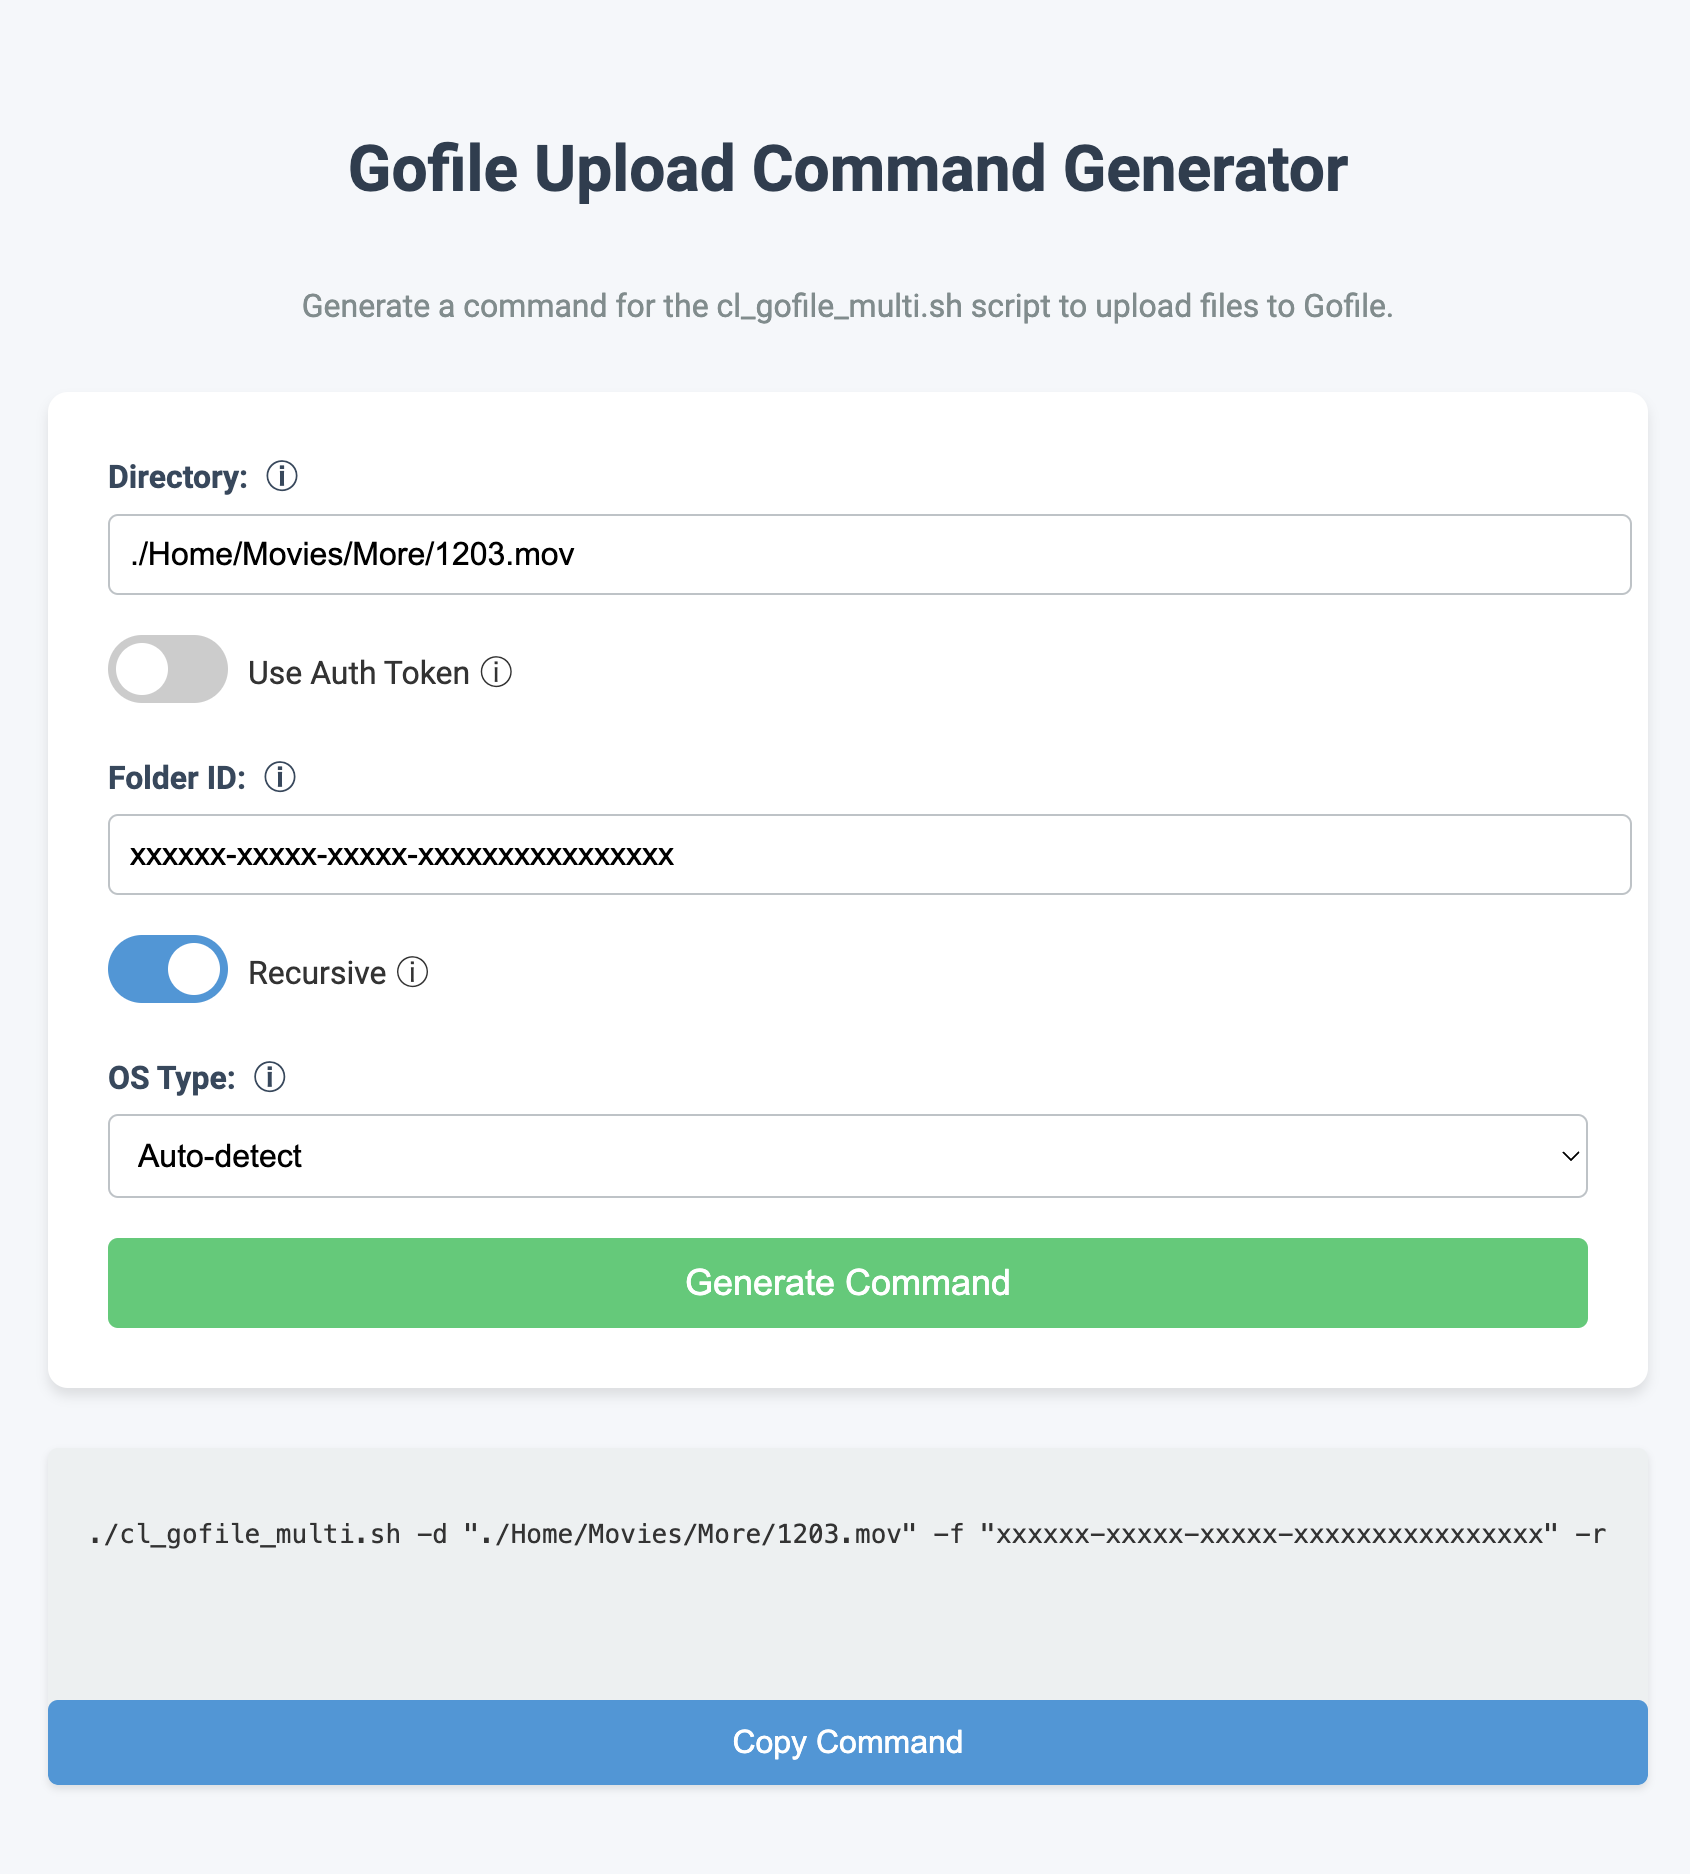
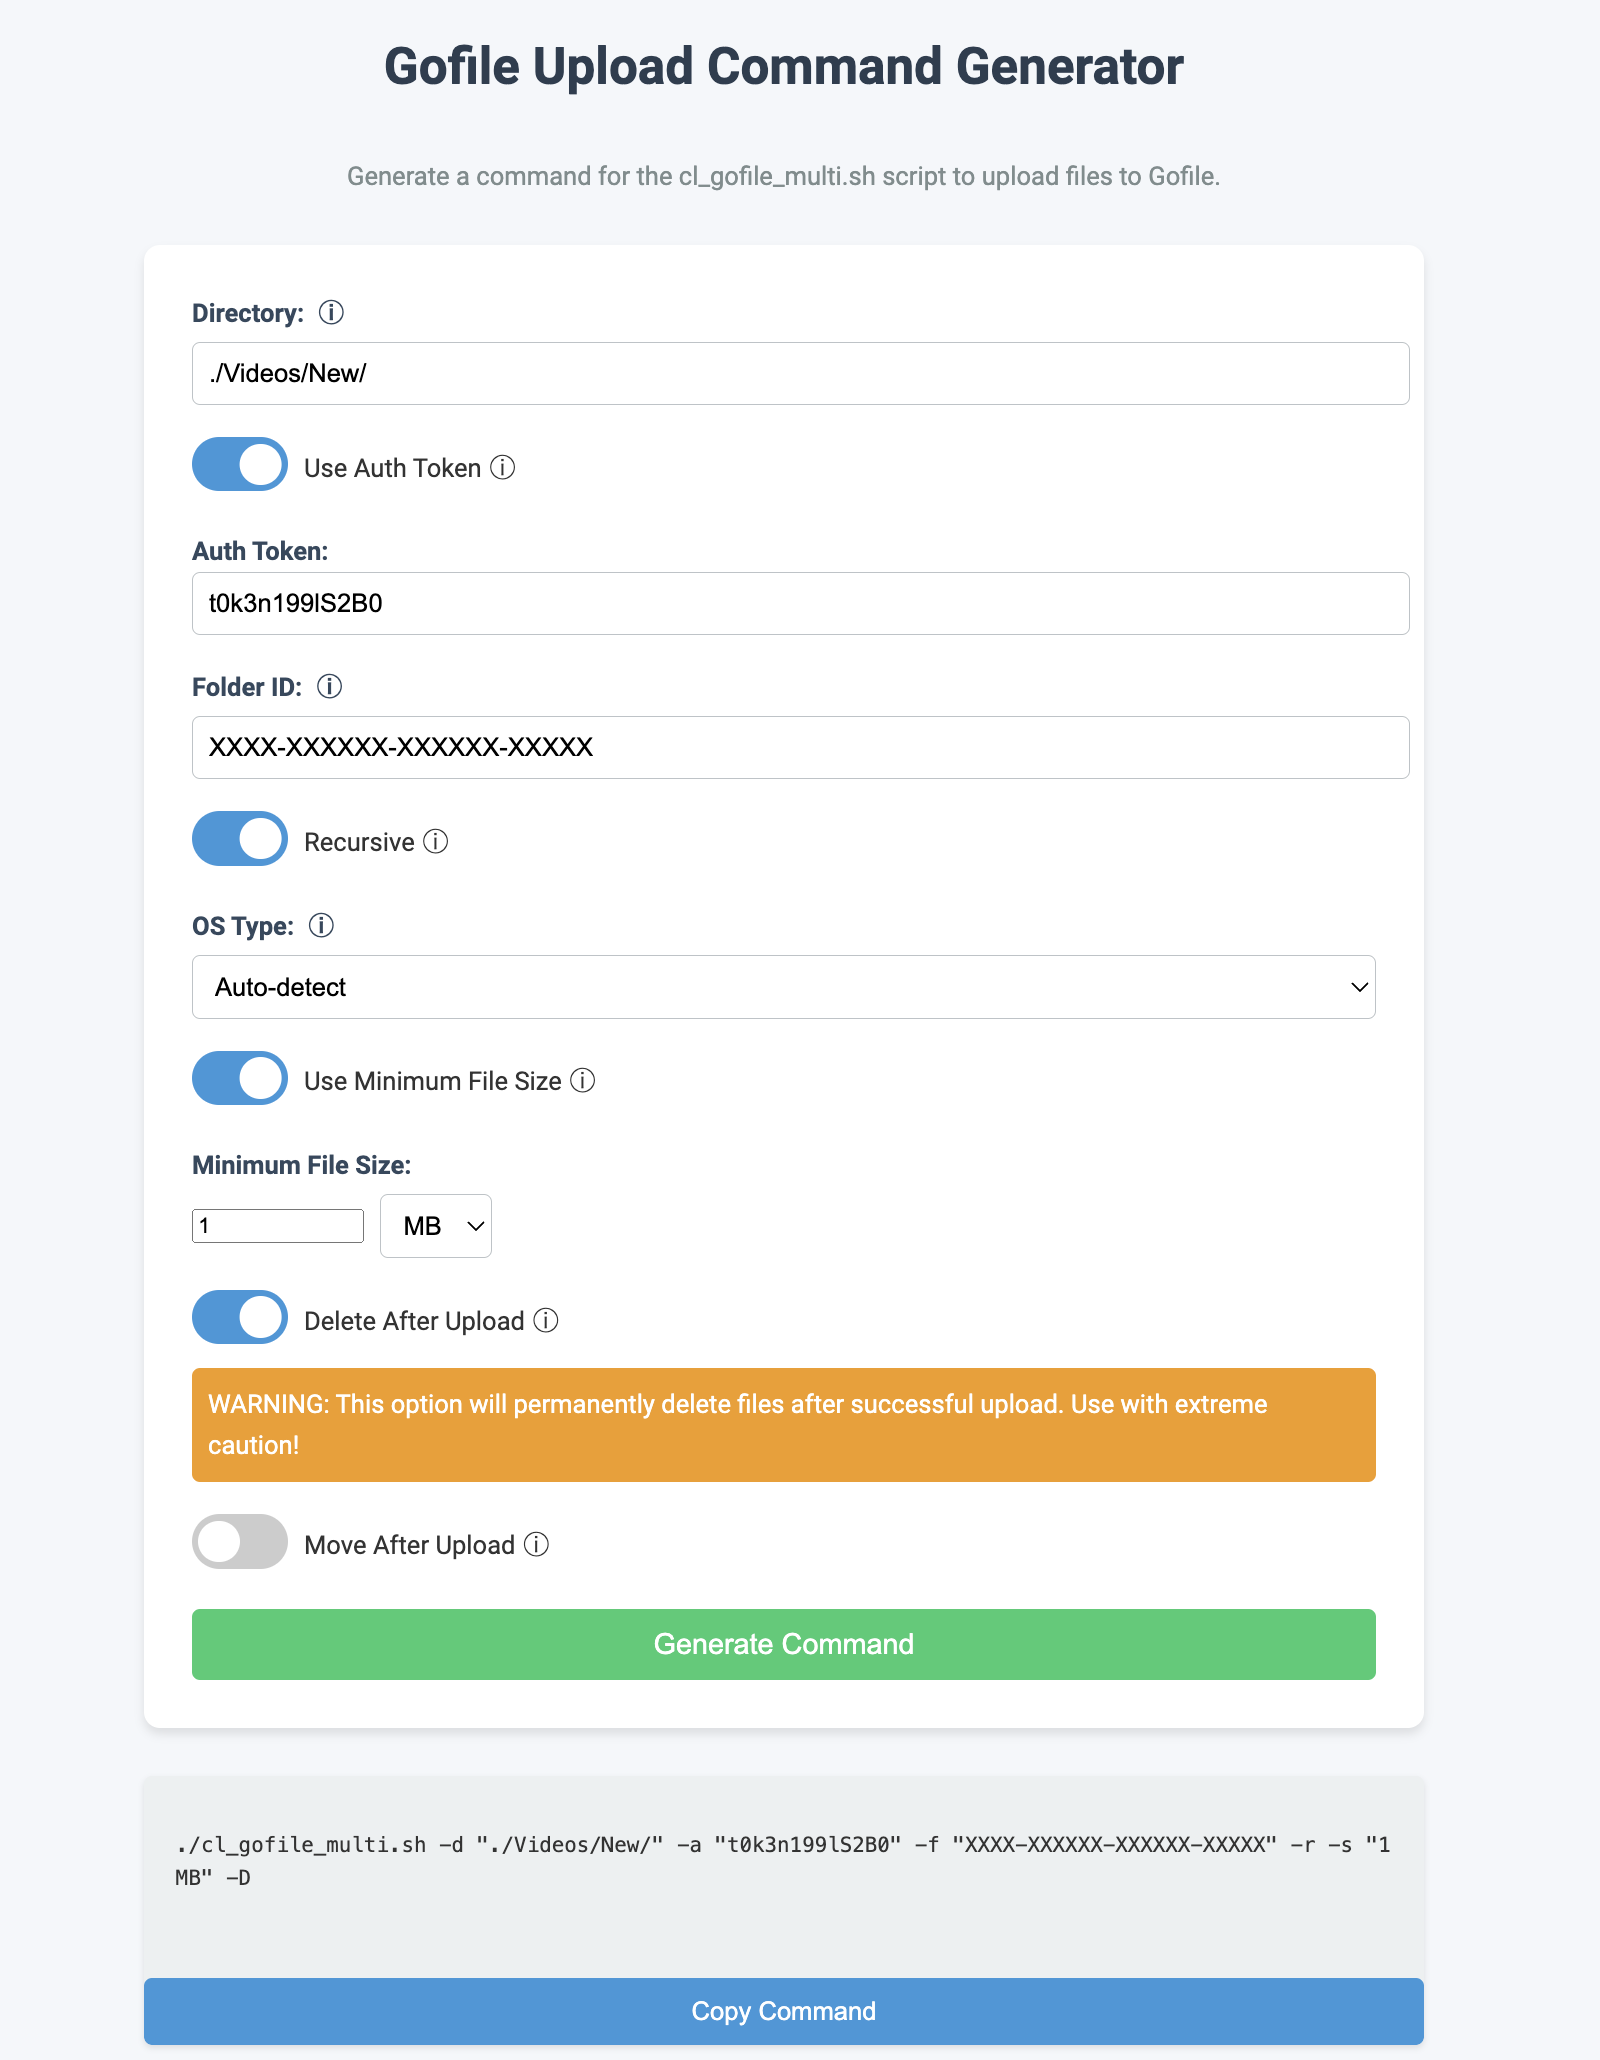
Added features; min size, auto delete, move on success. Updated example image. Updated index.html.

Changed region(s): [[0.0625, 0.1238, 0.9375, 0.8356], [0.0312, 0.8975, 1.0, 1.0], [0.1875, 0.0, 0.8125, 0.1238]]

diff --git a/index.html b/index.html
@@ -187,6 +187,29 @@
             visibility: visible;
             opacity: 1;
         }
+
+        .min-size-container {
+            display: flex;
+            align-items: center;
+            gap: 10px;
+        }
+
+        #minSizeValue {
+            width: 100px;
+        }
+
+        #minSizeUnit {
+            width: 70px;
+        }
+
+        .warning {
+            background-color: #f39c12;
+            color: white;
+            padding: 10px;
+            border-radius: 5px;
+            margin-top: 10px;
+            display: none;
+        }
     </style>
 </head>
 
@@ -258,6 +281,65 @@
             </select>
         </div>
 
+        <div class="form-group">
+            <div class="toggle-container">
+                <label class="toggle">
+                    <input type="checkbox" id="useMinSize" name="useMinSize" checked>
+                    <span class="slider"></span>
+                </label>
+                <span>Use Minimum File Size</span>
+                <span class="tooltip">ⓘ
+                    <span class="tooltiptext">Enable to set a minimum file size for upload</span>
+                </span>
+            </div>
+        </div>
+
+        <div id="minSizeContainer" class="form-group">
+            <label for="minSizeValue">Minimum File Size:</label>
+            <div class="min-size-container">
+                <input type="number" id="minSizeValue" name="minSizeValue" value="1" min="1">
+                <select id="minSizeUnit" name="minSizeUnit">
+                    <option value="B">B</option>
+                    <option value="KB">KB</option>
+                    <option value="MB" selected>MB</option>
+                </select>
+            </div>
+        </div>
+
+        <div class="form-group">
+            <div class="toggle-container">
+                <label class="toggle">
+                    <input type="checkbox" id="deleteAfterUpload" name="deleteAfterUpload">
+                    <span class="slider"></span>
+                </label>
+                <span>Delete After Upload</span>
+                <span class="tooltip">ⓘ
+                    <span class="tooltiptext">Enable to delete files after successful upload (CAUTION: This is
+                        irreversible!)</span>
+                </span>
+            </div>
+            <div id="deleteWarning" class="warning">
+                WARNING: This option will permanently delete files after successful upload. Use with extreme caution!
+            </div>
+        </div>
+
+        <div class="form-group">
+            <div class="toggle-container">
+                <label class="toggle">
+                    <input type="checkbox" id="moveAfterUpload" name="moveAfterUpload">
+                    <span class="slider"></span>
+                </label>
+                <span>Move After Upload</span>
+                <span class="tooltip">ⓘ
+                    <span class="tooltiptext">Enable to move files to a 'completed' folder after successful
+                        upload</span>
+                </span>
+            </div>
+            <div id="moveWarning" class="warning">
+                Note: This option will move files to a 'completed' folder after successful upload.
+            </div>
+        </div>
+
         <button type="submit">Generate Command</button>
     </form>
 
@@ -269,9 +351,35 @@
     <script>
         const useAuthTokenToggle = document.getElementById('useAuthToken');
         const authTokenContainer = document.getElementById('authTokenContainer');
+        const useMinSizeToggle = document.getElementById('useMinSize');
+        const minSizeContainer = document.getElementById('minSizeContainer');
+        const deleteAfterUploadToggle = document.getElementById('deleteAfterUpload');
+        const deleteWarning = document.getElementById('deleteWarning');
+        const moveAfterUploadToggle = document.getElementById('moveAfterUpload');
+        const moveWarning = document.getElementById('moveWarning');
 
         useAuthTokenToggle.addEventListener('change', function () {
             authTokenContainer.style.display = this.checked ? 'block' : 'none';
+        });
+
+        useMinSizeToggle.addEventListener('change', function () {
+            minSizeContainer.style.display = this.checked ? 'block' : 'none';
+        });
+
+        deleteAfterUploadToggle.addEventListener('change', function () {
+            deleteWarning.style.display = this.checked ? 'block' : 'none';
+            if (this.checked) {
+                moveAfterUploadToggle.checked = false;
+                moveWarning.style.display = 'none';
+            }
+        });
+
+        moveAfterUploadToggle.addEventListener('change', function () {
+            moveWarning.style.display = this.checked ? 'block' : 'none';
+            if (this.checked) {
+                deleteAfterUploadToggle.checked = false;
+                deleteWarning.style.display = 'none';
+            }
         });
 
         document.getElementById('uploadForm').addEventListener('submit', function (e) {
@@ -283,6 +391,11 @@
             const folderId = document.getElementById('folderId').value;
             const recursive = document.getElementById('recursive').checked;
             const osType = document.getElementById('osType').value;
+            const useMinSize = document.getElementById('useMinSize').checked;
+            const minSizeValue = document.getElementById('minSizeValue').value;
+            const minSizeUnit = document.getElementById('minSizeUnit').value;
+            const deleteAfterUpload = document.getElementById('deleteAfterUpload').checked;
+            const moveAfterUpload = document.getElementById('moveAfterUpload').checked;
 
             let command = `./cl_gofile_multi.sh`;
 
@@ -291,6 +404,9 @@
             if (folderId) command += ` -f "${folderId}"`;
             if (recursive) command += ` -r`;
             if (osType) command += ` -o ${osType}`;
+            if (useMinSize) command += ` -s "${minSizeValue}${minSizeUnit}"`;
+            if (deleteAfterUpload) command += ` -D`;
+            if (moveAfterUpload) command += ` -m`;
 
             document.getElementById('command').textContent = command;
         });

diff --git a/README.MD b/README.MD
@@ -34,6 +34,10 @@ This Bash script allows you to upload multiple files to GoFile with various opti
 - Progress tracking
 - OS detection (macOS, Linux, Windows)
 - Authentication token management
+- Minimum file size filtering
+- Option to delete files after successful upload
+- Option to move files to a 'completed' folder after successful upload
+- Sorting files by size before upload
 
 ### Screenshot
 
@@ -48,7 +52,7 @@ This Bash script allows you to upload multiple files to GoFile with various opti
 ### Usage
 
 ```bash
-./cl_gofile_multi.sh [-d directory] [-a auth_token] [-f folderid] [-r] [-o os_type] [-u]
+./cl_gofile_multi.sh [-d directory] [-a auth_token] [-f folderid] [-r] [-o os_type] [-u] [-s min_size] [-D] [-m]
 ```
 
 #### Options:
@@ -59,6 +63,9 @@ This Bash script allows you to upload multiple files to GoFile with various opti
 - `-r`: Enable recursive directory scanning
 - `-o`: Manually set the OS type (macos, linux, or windows)
 - `-u`: Update the stored authentication token
+- `-s`: Set minimum file size for upload (e.g., "1MB", "500KB")
+- `-D`: Delete files after successful upload (use with caution!)
+- `-m`: Move files to a 'completed' folder after successful upload
 
 ### Examples
 
@@ -82,6 +89,21 @@ This Bash script allows you to upload multiple files to GoFile with various opti
    ./cl_gofile_multi.sh -u
    ```
 
+5. Upload files larger than 5MB:
+   ```bash
+   ./cl_gofile_multi.sh -s "5MB"
+   ```
+
+6. Upload files and delete them after successful upload:
+   ```bash
+   ./cl_gofile_multi.sh -D
+   ```
+
+7. Upload files and move them to a 'completed' folder after successful upload:
+   ```bash
+   ./cl_gofile_multi.sh -m
+   ```
+
 ## index.html
 
 This HTML file provides a user-friendly interface for generating commands to use with the `cl_gofile_multi.sh` script.
@@ -92,6 +114,9 @@ This HTML file provides a user-friendly interface for generating commands to use
 - Toggle switches for recursive uploads and authentication token usage
 - OS type selection
 - Command generation based on user input
+- Minimum file size option
+- Delete after upload option (with warning)
+- Move after upload option
 
 ### Usage
 
@@ -120,13 +145,32 @@ Keep your GoFile authentication token secure. Do not share it or commit it to pu
 
 ## Limitations
 
-- The script requires files to be larger than 1MB for upload.
+- The script requires `jq` for JSON parsing.
 - It excludes hidden files and files named 'SYNOINDEX_*'.
+- The delete and move options should be used with caution, as they modify or remove files from your system.
 
-## Contributing
-
-Contributions to improve the script or HTML interface are welcome. Please submit pull requests or open issues for any bugs or feature requests.
 
 ## License
 
-This project is open-source. Please include an appropriate license file in your repository and specify the license terms here.
+This project is licensed under the MIT License. See the [LICENSE](LICENSE) file in the repository for the full license text.
+
+### MIT License Summary
+
+- Permission is granted to use, copy, modify, merge, publish, distribute, sublicense, and/or sell copies of the software.
+- The software is provided "as is", without warranty of any kind.
+- The authors or copyright holders are not liable for any claims, damages, or other liability arising from the use of the software.
+
+For more details on the MIT License, visit [opensource.org/licenses/MIT](https://opensource.org/licenses/MIT).
+
+### Third-Party Libraries
+
+This project uses the following third-party libraries, which may have their own licenses:
+
+- `jq`: Used for JSON parsing. Licensed under the MIT License.
+- `curl`: Used for making HTTP requests. Licensed under the curl License.
+
+Please review the licenses of these libraries if you plan to use or distribute this software.
+
+### Contributing
+
+Contributions to this project are welcome. By contributing, you agree to license your contributions under the same MIT License that covers this project.
